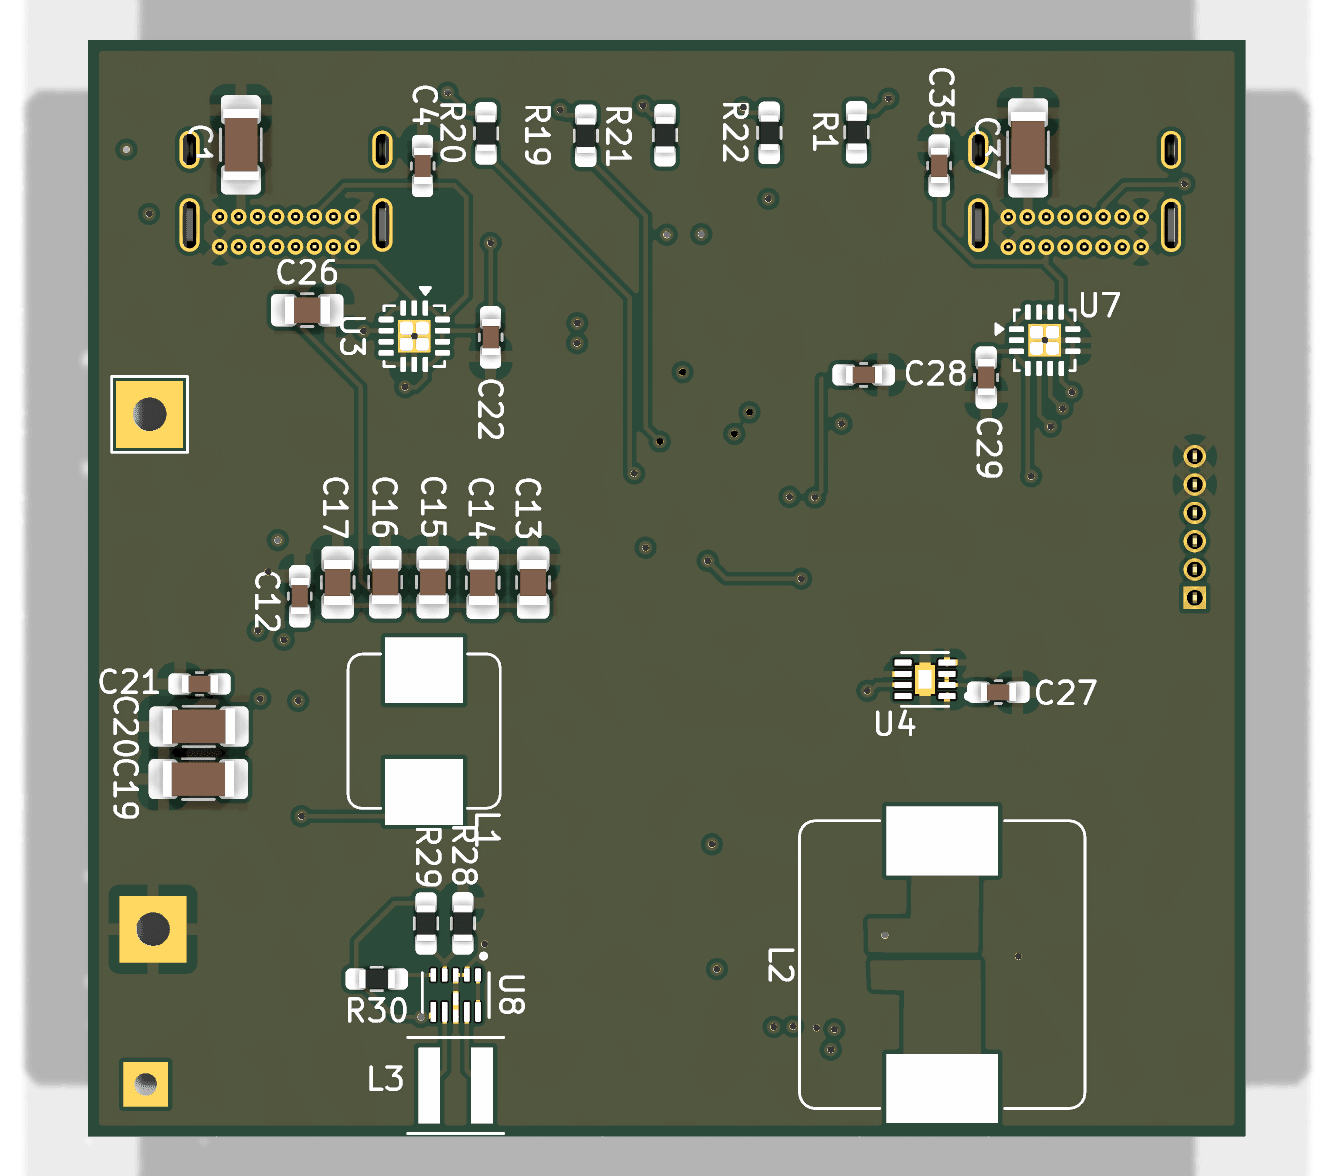
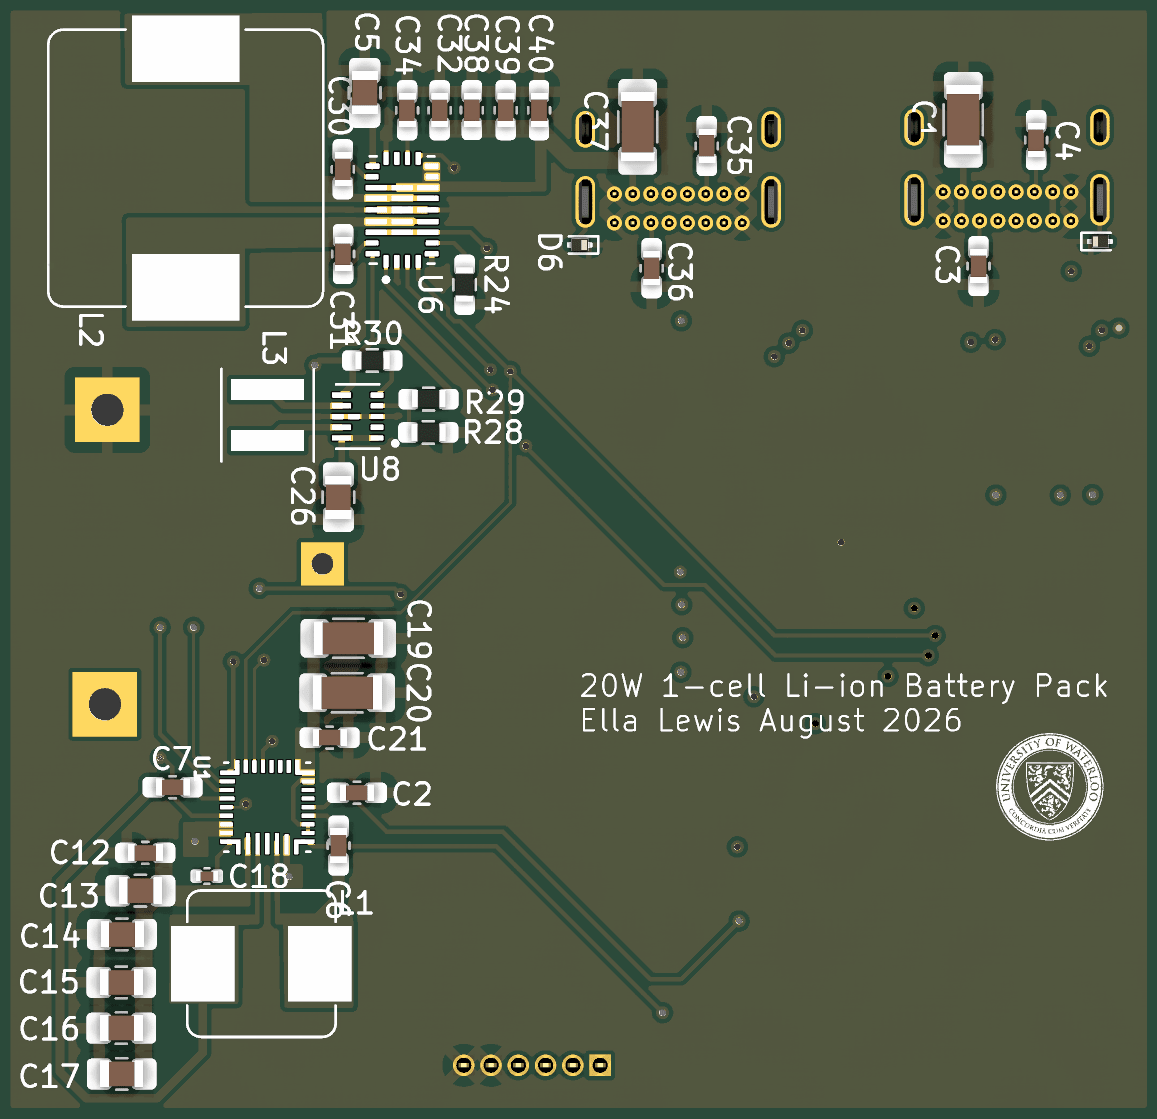
Battery pack 20 W rewrite, interactive schematic viewer, v1 board renders

diff --git a/panzoom.js b/panzoom.js
@@ -1,0 +1,127 @@
+/* Interactive pan/zoom for large figures (schematics, layouts).
+   Markup:
+     <div class="zoomview"><div class="zoomctl">...</div><img src="..."></div>
+   Plain scroll still scrolls the page. Ctrl/Cmd + scroll zooms. */
+(function () {
+  'use strict';
+
+  function setup(view) {
+    var img = view.querySelector('img');
+    if (!img) return;
+
+    var scale = 1, tx = 0, ty = 0, fit = 1;
+    var MAX = 20;
+    var pointers = new Map();
+    var pinchDist = 0, pinchMid = null;
+
+    function apply() {
+      img.style.transform = 'translate(' + tx.toFixed(2) + 'px,' + ty.toFixed(2) + 'px) scale(' + scale.toFixed(4) + ')';
+    }
+
+    function clamp() {
+      var w = view.clientWidth, h = view.clientHeight;
+      var iw = img.offsetWidth * scale, ih = img.offsetHeight * scale;
+      tx = iw <= w ? (w - iw) / 2 : Math.min(0, Math.max(w - iw, tx));
+      ty = ih <= h ? (h - ih) / 2 : Math.min(0, Math.max(h - ih, ty));
+    }
+
+    function reset() {
+      var ih = img.offsetHeight;
+      fit = ih ? Math.min(1, view.clientHeight / ih) : 1;
+      scale = fit;
+      tx = 0; ty = 0;
+      clamp(); apply();
+    }
+
+    function zoomAt(cx, cy, factor) {
+      var ns = Math.max(fit, Math.min(MAX, scale * factor));
+      if (Math.abs(ns - scale) < 1e-6) return;
+      tx = cx - (cx - tx) * (ns / scale);
+      ty = cy - (cy - ty) * (ns / scale);
+      scale = ns;
+      clamp(); apply();
+    }
+
+    function local(e) {
+      var r = view.getBoundingClientRect();
+      return { x: e.clientX - r.left, y: e.clientY - r.top };
+    }
+
+    view.addEventListener('wheel', function (e) {
+      if (!(e.ctrlKey || e.metaKey)) return;   // plain scroll = page scroll
+      e.preventDefault();
+      var p = local(e);
+      zoomAt(p.x, p.y, Math.exp(-e.deltaY * 0.002));
+    }, { passive: false });
+
+    view.addEventListener('dblclick', function (e) {
+      e.preventDefault();
+      var p = local(e);
+      zoomAt(p.x, p.y, 1.8);
+    });
+
+    view.addEventListener('pointerdown', function (e) {
+      if (e.target.closest('.zoomctl')) return;
+      view.setPointerCapture(e.pointerId);
+      pointers.set(e.pointerId, local(e));
+      view.classList.add('dragging');
+      if (pointers.size === 2) {
+        var p = Array.from(pointers.values());
+        pinchDist = Math.hypot(p[0].x - p[1].x, p[0].y - p[1].y);
+        pinchMid = { x: (p[0].x + p[1].x) / 2, y: (p[0].y + p[1].y) / 2 };
+      }
+    });
+
+    view.addEventListener('pointermove', function (e) {
+      if (!pointers.has(e.pointerId)) return;
+      var prev = pointers.get(e.pointerId);
+      var cur = local(e);
+      pointers.set(e.pointerId, cur);
+
+      if (pointers.size === 2) {
+        var p = Array.from(pointers.values());
+        var d = Math.hypot(p[0].x - p[1].x, p[0].y - p[1].y);
+        if (pinchDist > 0 && d > 0) zoomAt(pinchMid.x, pinchMid.y, d / pinchDist);
+        pinchDist = d;
+        pinchMid = { x: (p[0].x + p[1].x) / 2, y: (p[0].y + p[1].y) / 2 };
+        return;
+      }
+      tx += cur.x - prev.x;
+      ty += cur.y - prev.y;
+      clamp(); apply();
+    });
+
+    function release(e) {
+      pointers.delete(e.pointerId);
+      if (pointers.size < 2) pinchDist = 0;
+      if (pointers.size === 0) view.classList.remove('dragging');
+    }
+    view.addEventListener('pointerup', release);
+    view.addEventListener('pointercancel', release);
+
+    view.addEventListener('click', function (e) {
+      var btn = e.target.closest('[data-zoom]');
+      if (!btn) return;
+      var mode = btn.getAttribute('data-zoom');
+      if (mode === 'reset') { reset(); return; }
+      zoomAt(view.clientWidth / 2, view.clientHeight / 2, mode === 'in' ? 1.5 : 1 / 1.5);
+    });
+
+    var resizeTimer;
+    window.addEventListener('resize', function () {
+      clearTimeout(resizeTimer);
+      resizeTimer = setTimeout(reset, 120);
+    });
+
+    if (img.complete && img.offsetHeight) reset();
+    else img.addEventListener('load', reset);
+    // SVGs occasionally report zero height on the first tick
+    setTimeout(function () { if (!img.offsetHeight) return; if (scale === 1 && tx === 0 && ty === 0) reset(); }, 60);
+  }
+
+  function init() {
+    document.querySelectorAll('.zoomview').forEach(setup);
+  }
+  if (document.readyState === 'loading') document.addEventListener('DOMContentLoaded', init);
+  else init();
+})();

diff --git a/style.css b/style.css
@@ -654,3 +654,59 @@ figure .shot.pad img { transform: none !important; }
   section { padding: 56px 0; }
   .nav { flex-direction: column; align-items: flex-start; gap: 12px; }
 }
+
+/* --- interactive figure viewer (schematics, layouts) --- */
+.zoomview {
+  position: relative;
+  overflow: hidden;
+  border: 1px solid var(--line);
+  border-radius: var(--radius);
+  background: #fff;
+  height: min(72vh, 680px);
+  touch-action: pan-y;
+  cursor: grab;
+}
+.zoomview.dragging { cursor: grabbing; }
+.zoomview img {
+  position: absolute;
+  top: 0; left: 0;
+  width: 100%;
+  height: auto;
+  transform-origin: 0 0;
+  user-select: none;
+  -webkit-user-drag: none;
+  padding: 0;
+}
+.zoomctl {
+  position: absolute;
+  top: 10px; right: 10px;
+  display: flex;
+  gap: 6px;
+  z-index: 2;
+}
+.zoomctl button {
+  font-family: var(--mono);
+  font-size: 0.78rem;
+  line-height: 1;
+  padding: 7px 10px;
+  color: var(--fg);
+  background: var(--bg-panel);
+  border: 1px solid var(--line);
+  border-radius: var(--radius);
+  cursor: pointer;
+}
+.zoomctl button:hover { background: var(--bg-raised); }
+.zoomhint {
+  position: absolute;
+  left: 10px; bottom: 10px;
+  font-family: var(--mono);
+  font-size: 0.66rem;
+  letter-spacing: 0.03em;
+  color: var(--fg-dim);
+  background: var(--bg-panel);
+  border: 1px solid var(--line);
+  border-radius: var(--radius);
+  padding: 4px 8px;
+  pointer-events: none;
+  z-index: 2;
+}

diff --git a/project-battery.html b/project-battery.html
@@ -75,8 +75,16 @@
         </div>
         <p>Buck/boost stage carried over from the adjustable buck converter card.</p>
         <figure>
-          <a href="images/battery-sch.svg" target="_blank" rel="noopener"><span class="shot pad"><img src="images/battery-sch.svg" alt="Schematic of the battery pack"></span></a>
-          <figcaption>Schematic capture. Click to open full size.</figcaption>
+          <div class="zoomview">
+            <div class="zoomctl">
+              <button type="button" data-zoom="out" aria-label="Zoom out">&minus;</button>
+              <button type="button" data-zoom="in" aria-label="Zoom in">+</button>
+              <button type="button" data-zoom="reset" aria-label="Reset view">reset</button>
+            </div>
+            <span class="zoomhint">drag to pan &middot; ctrl/&#8984; + scroll to zoom</span>
+            <img src="images/battery-sch.svg" alt="Schematic of the battery pack">
+          </div>
+          <figcaption>Schematic capture. <a href="images/battery-sch.svg" target="_blank" rel="noopener">Open full size</a>.</figcaption>
         </figure>
 
         <div class="section-head" style="margin-top:48px">
@@ -129,6 +137,7 @@
 </footer>
 
 <script src="scroll.js" defer></script>
+<script src="panzoom.js" defer></script>
 
 </body>
 </html>
